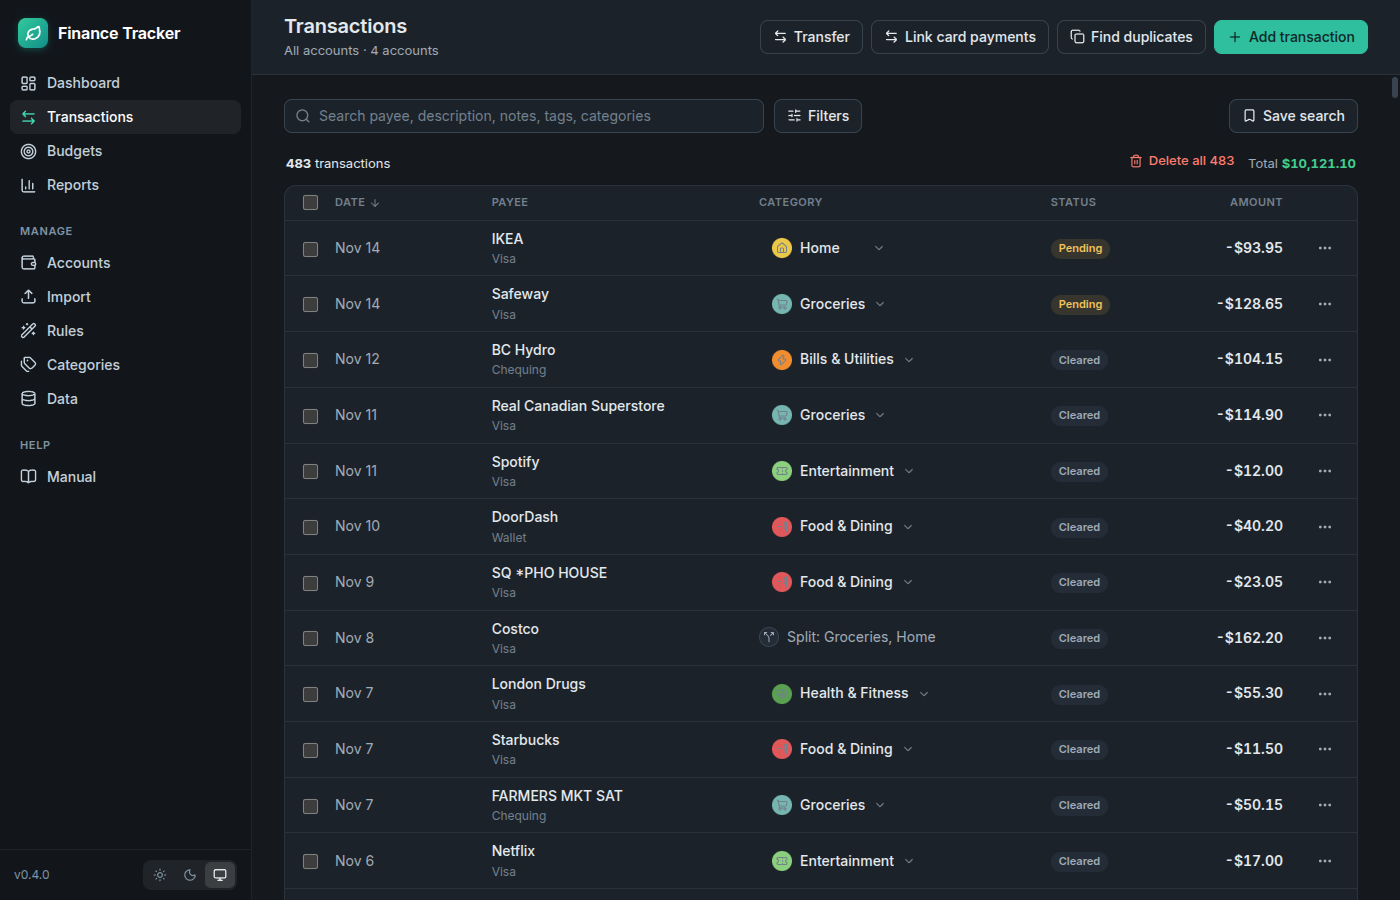
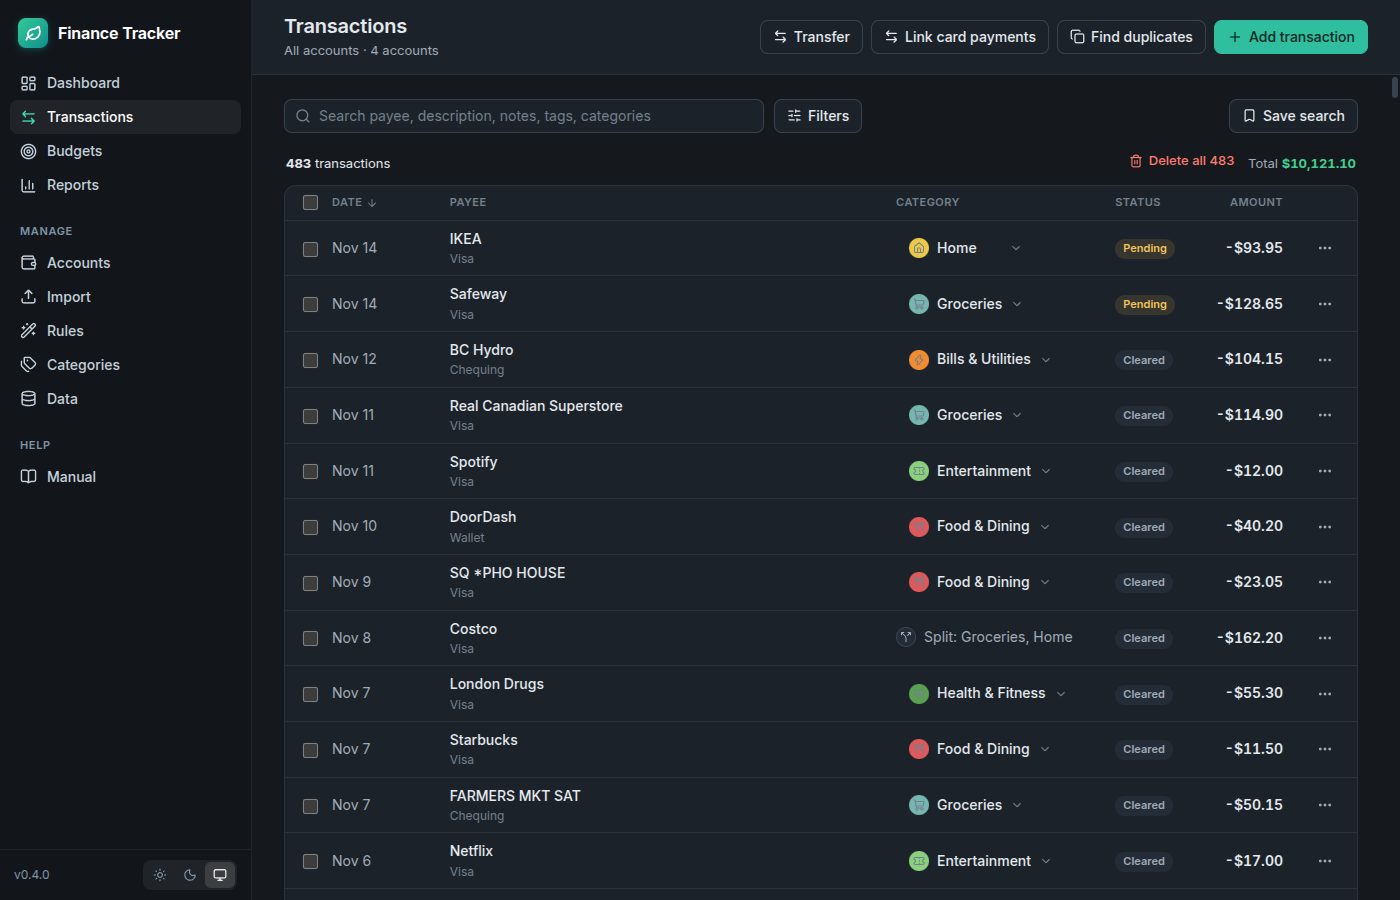
fix: dashboard tiles, long text truncation and narrow-window layout
Stat tiles that are buttons inherited the global button height and nowrap,
squashing captions; reset them. Empty trend chart axis uses $0 to $100.
Long payees, descriptions and rule names truncate with a title tooltip in
Transactions, Reports, dashboard, Rules and the import preview. Below
1000px the header wraps and the Status column hides; below 900px the sidebar
is an icon rail with aria-labels. README screenshots regenerated (demo data).

Claude-Session: https://claude.ai/code/session_015k7HiAdTpjfhzJFgrdU148

diff --git a/src/renderer/src/styles.css b/src/renderer/src/styles.css
@@ -884,9 +884,28 @@ td select {
   font-size: 13px;
 }
 .stat.clickable {
+  /* Undo the global button look: the tile is a column of label, value and note. */
+  display: flex;
+  flex-direction: column;
+  align-items: stretch;
+  justify-content: flex-start;
+  gap: 4px;
+  height: auto;
+  min-width: 0;
+  padding: 16px 18px;
+  border-radius: var(--radius-lg);
   font: inherit;
+  font-size: 13px;
+  font-weight: 400;
   text-align: left;
+  white-space: normal;
   cursor: pointer;
+}
+.stat .stat-head {
+  width: 100%;
+}
+.stat .muted {
+  overflow-wrap: anywhere;
 }
 .stat.clickable:hover {
   border-color: var(--accent);
@@ -1386,7 +1405,7 @@ form.stack {
 }
 .meter {
   display: grid;
-  grid-template-columns: auto 1fr auto;
+  grid-template-columns: auto minmax(0, 1fr) auto;
   align-items: center;
   gap: 4px 12px;
   width: 100%;
@@ -1475,8 +1494,21 @@ form.stack {
   gap: 10px;
   min-width: 0;
 }
+td:has(> .txn-cell) {
+  /* Take the leftover width and let long names truncate instead of widening the table. */
+  width: 100%;
+  max-width: 0;
+}
+.txn-cell > div {
+  min-width: 0;
+  overflow: hidden;
+  text-overflow: ellipsis;
+  white-space: nowrap;
+}
 .txn-cell .sub {
   display: block;
+  overflow: hidden;
+  text-overflow: ellipsis;
   font-size: 12px;
   color: var(--text-3);
 }
@@ -1597,10 +1629,29 @@ form.stack {
   background: var(--accent-soft);
 }
 .txn-table td.payee {
-  min-width: 180px;
+  /* max-width 0 lets the cell take the leftover width and truncate long text. */
+  width: 100%;
+  min-width: 140px;
+  max-width: 0;
 }
 .payee-name {
+  display: flex;
+  align-items: center;
+  gap: 4px;
+  min-width: 0;
   font-weight: 500;
+}
+.payee-text {
+  min-width: 0;
+  overflow: hidden;
+  text-overflow: ellipsis;
+  white-space: nowrap;
+}
+.payee-name .note-indicator {
+  flex: none;
+}
+.payee-sub {
+  min-width: 0;
 }
 .payee-sub {
   display: flex;
@@ -1761,7 +1812,7 @@ form.stack {
 }
 .budget-row {
   display: grid;
-  grid-template-columns: auto 1fr auto;
+  grid-template-columns: auto minmax(0, 1fr) auto;
   align-items: center;
   gap: 14px;
   padding: 12px 0;
@@ -1890,7 +1941,7 @@ form.stack {
 }
 .rule-item {
   display: grid;
-  grid-template-columns: auto 1fr auto;
+  grid-template-columns: auto minmax(0, 1fr) auto;
   align-items: center;
   gap: 14px;
   padding: 12px 18px;
@@ -1920,6 +1971,7 @@ form.stack {
 }
 .rule-body {
   display: grid;
+  grid-template-columns: minmax(0, 1fr);
   gap: 6px;
   min-width: 0;
 }
@@ -1927,6 +1979,13 @@ form.stack {
   display: flex;
   align-items: center;
   gap: 8px;
+  min-width: 0;
+}
+.rule-name {
+  min-width: 0;
+  overflow: hidden;
+  text-overflow: ellipsis;
+  white-space: nowrap;
 }
 .rule-actions {
   display: flex;
@@ -1940,6 +1999,11 @@ form.stack {
   gap: 6px;
 }
 .chip {
+  max-width: 100%;
+  min-width: 0;
+  overflow: hidden;
+  text-overflow: ellipsis;
+  white-space: nowrap;
   display: inline-flex;
   align-items: center;
   gap: 6px;
@@ -2695,4 +2759,73 @@ th.num .sort-head {
   border: 1px solid var(--border);
   border-radius: 4px;
   opacity: 0.8;
+}
+
+/* ---------- Narrow windows ---------- */
+
+@media (max-width: 1000px) {
+  .page-header {
+    flex-wrap: wrap;
+    padding: 12px 20px;
+  }
+  .page-actions {
+    flex-wrap: wrap;
+  }
+  .content {
+    padding: 20px 20px 40px;
+  }
+  .txn-table .col-status {
+    display: none;
+  }
+}
+@media (max-width: 900px) {
+  .layout {
+    grid-template-columns: 56px 1fr;
+  }
+  .brand {
+    justify-content: center;
+    padding: 18px 0 14px;
+  }
+  .brand h1,
+  .nav-heading,
+  .nav-item .grow,
+  .sidebar-footer > span:first-child {
+    display: none;
+  }
+  .nav-group {
+    margin-bottom: 8px;
+    padding-top: 6px;
+    border-top: 1px solid var(--sidebar-border);
+  }
+  .nav-group:first-child {
+    border-top: 0;
+    padding-top: 0;
+  }
+  .sidebar-scroll {
+    padding: 4px 8px 12px;
+  }
+  .nav-item {
+    justify-content: center;
+    padding: 0;
+  }
+  .sidebar-footer {
+    flex-direction: column;
+    padding: 10px 4px;
+  }
+  .theme-switch {
+    flex-direction: column;
+  }
+}
+
+.review-card h3,
+.review-card .subtle {
+  overflow-wrap: anywhere;
+}
+.import-table td.desc-cell {
+  width: 40%;
+  min-width: 140px;
+  max-width: 0;
+  overflow: hidden;
+  text-overflow: ellipsis;
+  white-space: nowrap;
 }

diff --git a/src/renderer/src/TransactionList.tsx b/src/renderer/src/TransactionList.tsx
@@ -136,7 +136,7 @@ export function TransactionList({
             {head('date', 'Date')}
             {head('payee', 'Payee')}
             {head('category', 'Category')}
-            {head('status', 'Status')}
+            {head('status', 'Status', 'col-status')}
             {head('amount', 'Amount', 'num')}
             <th />
           </tr>
@@ -160,7 +160,13 @@ export function TransactionList({
                   <td className="nowrap muted">{displayDate(t.date)}</td>
                   <td className="payee">
                     <div className="payee-name">
-                      {t.payee || t.rawDescription || <span className="muted">(none)</span>}
+                      {t.payee || t.rawDescription ? (
+                        <span className="payee-text" title={t.payee || t.rawDescription}>
+                          {t.payee || t.rawDescription}
+                        </span>
+                      ) : (
+                        <span className="muted">(none)</span>
+                      )}
                       {t.notes && (
                         <button
                           type="button"
@@ -225,7 +231,7 @@ export function TransactionList({
                       </span>
                     )}
                   </td>
-                  <td className="nowrap">
+                  <td className="nowrap col-status">
                     <span className={STATUS_PILL[t.status] ?? 'pill'}>{t.status}</span>
                     {t.excludeFromBudgets && (
                       <span

diff --git a/src/renderer/src/RulesEditor.tsx b/src/renderer/src/RulesEditor.tsx
@@ -374,14 +374,16 @@ export function RulesEditor({
                 <span className="rule-order">{i + 1}</span>
                 <div className="rule-body">
                   <div className="rule-title">
-                    <strong>{r.name || <span className="muted">Unnamed rule</span>}</strong>
+                    <strong className="rule-name" title={r.name || undefined}>
+                      {r.name || <span className="muted">Unnamed rule</span>}
+                    </strong>
                     {!r.enabled && <span className="pill">Off</span>}
                   </div>
                   <div className="chips">
                     <span className="chip-label">When</span>
                     {r.conditions.length === 0 && <span className="chip">any transaction</span>}
                     {r.conditions.map((c, k) => (
-                      <span key={k} className="chip">
+                      <span key={k} className="chip" title={describeCondition(c, accounts)}>
                         {describeCondition(c, accounts)}
                       </span>
                     ))}
@@ -396,7 +398,7 @@ export function RulesEditor({
                           )}
                         </span>
                       ) : (
-                        <span key={k} className="chip">
+                        <span key={k} className="chip" title={describeAction(a, categories)}>
                           {describeAction(a, categories)}
                         </span>
                       ),

diff --git a/src/renderer/src/Reports.tsx b/src/renderer/src/Reports.tsx
@@ -304,7 +304,7 @@ export function Reports({
                         <td>
                           <div className="txn-cell">
                             <PayeeAvatar name={p.payee} />
-                            <div>
+                            <div title={p.payee}>
                               {p.payee}
                               <span className="sub">
                                 {p.count} transaction{p.count === 1 ? '' : 's'}
@@ -333,7 +333,7 @@ export function Reports({
                         <td>
                           <div className="txn-cell">
                             <PayeeAvatar name={t.payee} />
-                            <div>
+                            <div title={t.payee || undefined}>
                               {t.payee || 'No payee'}
                               <span className="sub">
                                 {displayDate(t.date)} · {accountName(t.accountId)}

diff --git a/src/renderer/src/ImportWizard.tsx b/src/renderer/src/ImportWizard.tsx
@@ -1014,7 +1014,9 @@ export function ImportWizard({
                       <tr key={it.candidate.line}>
                         <td className="subtle">{it.candidate.line}</td>
                         <td className="nowrap">{it.candidate.date}</td>
-                        <td>{it.candidate.rawDescription}</td>
+                        <td className="desc-cell" title={it.candidate.rawDescription}>
+                          {it.candidate.rawDescription}
+                        </td>
                         <td className={`num amount ${it.candidate.amount < 0 ? '' : 'pos'}`}>
                           {formatCents(it.candidate.amount)}
                         </td>

diff --git a/src/renderer/src/Dashboard.tsx b/src/renderer/src/Dashboard.tsx
@@ -238,7 +238,7 @@ export function Dashboard({
                       <td>
                         <div className="txn-cell">
                           <PayeeAvatar name={t.payee} />
-                          <div>
+                          <div title={t.payee || undefined}>
                             {t.payee || 'No payee'}
                             <span className="sub">
                               {shortDate(t.date)} · {accountName(t.accountId)}

diff --git a/src/renderer/src/App.tsx b/src/renderer/src/App.tsx
@@ -223,6 +223,8 @@ function Shell() {
                             type="button"
                             role="tab"
                             className="nav-item"
+                            aria-label={label}
+                            title={label}
                             aria-selected={navView === v}
                             onClick={() => (v === 'ledger' ? pickAccount(null) : go(v))}
                           >

diff --git a/src/renderer/src/Bars.tsx b/src/renderer/src/Bars.tsx
@@ -33,7 +33,7 @@ const axisMoney = (cents: number) => {
 
 /** A tidy axis maximum and step for 4 gridlines. */
 function niceScale(max: number): { top: number; step: number } {
-  const raw = Math.max(max, 100) / 4
+  const raw = Math.max(max, 10000) / 4
   const mag = 10 ** Math.floor(Math.log10(raw))
   const step = ([1, 2, 2.5, 5, 10].find((m) => m * mag >= raw) ?? 10) * mag
   return { top: step * 4, step }

diff --git a/CHANGELOG.md b/CHANGELOG.md
@@ -20,8 +20,15 @@ All notable changes to this project are documented here. The format is based on
 - Dashboard drill-down: click the Income, Spending or Net tile, or a month in the six-month chart,
   to see the transactions behind the figure. Transactions has a Hide transfers filter for this.
 
+### Changed
+
+- Below 900px wide the sidebar collapses to icons only; tabs keep their names for screen readers and show them as tooltips.
+
 ### Fixed
 
+- Dashboard Income, Spending and Net tiles were squashed and their captions clipped under the next card; the tiles now show in full in light and dark. The empty six-month chart axis shows $0 to $100 instead of "$1 $1 $1 $0".
+- A very long payee, description or rule name no longer pushes columns off screen: Transactions, Reports, the dashboard, Rules and the import preview truncate it with an ellipsis and show the full text on hover.
+- At narrow window widths the page header buttons wrap and the Transactions page no longer scrolls sideways (the Status column is hidden below 1000px).
 - Typing 5,5 or 1,50 as an amount recorded $55.00 or $150.00. A single comma before one or two final digits is now a decimal comma (1.234,56 and 1 234,56 work too); other commas stay thousands separators.
 - The dashboard's uncategorized Review button and category drill-downs now always search every
   account; a previously chosen account could hide the rows.

diff --git a/docs/design/13_look_and_feel.md b/docs/design/13_look_and_feel.md
@@ -103,3 +103,13 @@ avoid a flash. System is the default.
 - Toast: changing a category in the list no longer opens a dialog. A bottom toast offers
   Create rule, dismisses itself after 8 seconds, pauses while hovered or focused, and is
   replaced by the next one. `ToastProvider` and `useToast` live in `ui.tsx`.
+
+## Narrow windows and long text
+
+- Below 1000px the page header wraps, content padding shrinks and the Transactions Status column is hidden.
+  Below 900px the sidebar is an icon rail (56px); nav tabs carry `aria-label` and `title` so
+  role and name lookups still work.
+- Long text never widens a table: a cell that should take the leftover width uses `width: 100%` with
+  `max-width: 0` and an ellipsis, with the full text in a `title`. Grid children that hold such text use
+  `minmax(0, 1fr)`. Stat tiles are buttons when clickable, so `.stat.clickable` resets the global button
+  height, alignment and nowrap.
